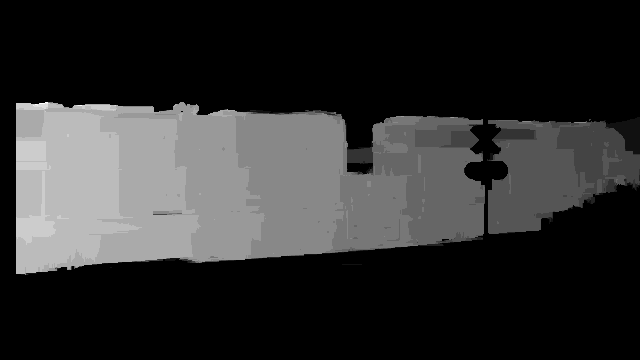
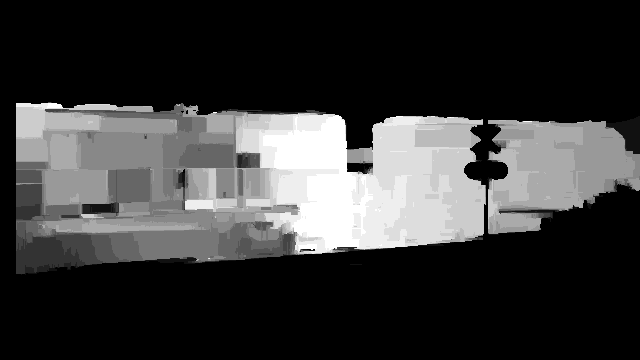
z-buffer looks nice :)

Changed region(s): [[0.0, 0.275, 1.0, 0.7639]]

diff --git a/poc/parallax/prl_v3_mask_border.py b/poc/parallax/prl_v3_mask_border.py
@@ -1,9 +1,11 @@
 import os
 import cv2
 import numpy as np
+from skimage.morphology import closing,disk
+
 
 # v_name = os.path.join(os.path.abspath(os.path.dirname(__file__)),'../../samples/youtube/out_2_1.mp4')
-v_name = os.path.join(os.path.abspath(os.path.dirname(__file__)),'../../samples/youtube/out_2_39.mp4')
+v_name = os.path.join(os.path.abspath(os.path.dirname(__file__)),'../../samples/youtube/out_3_3.mp4')
 f_name_full = os.path.join(os.path.abspath(os.path.dirname(__file__)),'./test_full.png')
 f_name_disp = os.path.join(os.path.abspath(os.path.dirname(__file__)),'./test_disp.png')
 
@@ -21,13 +23,13 @@ windowSize = windowSize = (imgR.shape[1], imgR.shape[0])
 resizeSize = (640, 360)
 
 
-out_name = v_name[:-4] + '_V3_test_resv_len1' + '.avi'
+out_name = v_name[:-4] + '_V3_test_resv_len1_border' + '.avi'
 # out_cap = cv2.VideoCapture(0)
 out_fourcc = cv2.VideoWriter_fourcc(*'XVID')
 out_framerate = cap.get(cv2.CAP_PROP_FPS)
 out_size = (int(cap.get(cv2.CAP_PROP_FRAME_WIDTH)), int(cap.get(cv2.CAP_PROP_FRAME_HEIGHT)))
 # out_out = cv2.VideoWriter(out_name, out_fourcc, out_framerate, (windowSize[0] * 2, windowSize[1] * 2))
-out_out = cv2.VideoWriter(out_name, out_fourcc, out_framerate, (resizeSize[0] * 2, resizeSize[1]))
+out_out = cv2.VideoWriter(out_name, out_fourcc, out_framerate, (resizeSize[0], resizeSize[1]))
 
 frames_left = cap.get(cv2.CAP_PROP_FRAME_COUNT)
 
@@ -55,8 +57,8 @@ def getDispV3(imgL, imgR):
     vis = cv2.ximgproc.getDisparityVis(filtered_disp)
     disp = cv2.normalize(vis, None, alpha = 0, beta = 255, norm_type = cv2.NORM_MINMAX, dtype = cv2.CV_8U)
     
-    disp2 = np.dstack((disp, disp, disp))
-    return disp2
+    # disp2 = np.dstack((disp, disp, disp))
+    return disp
 
 
 def getDispClear(disp):
@@ -79,10 +81,33 @@ while ret:
     imgR = cv2.resize(imgR, resizeSize)
 
     dispV3 = getDispV3(imgL, imgR)
-    conc = concImages(imgL, dispV3)
-    cv2.imshow(windowNameD, conc)
+    cv2.imshow("xdd", dispV3)
+    # conc = concImages(imgL, dispV3)
 
-    out_out.write(conc)
+    dispV3[dispV3 > 40] = 255
+    dispV3[dispV3 <= 40] = 0
+
+    
+
+    median = cv2.medianBlur(dispV3,5)
+
+    # kernel = disk(10)   
+    # img_opening = closing(median,kernel)
+    imgL[median == 0] = 0
+
+    # krawędź
+
+    # Creating kernel
+    kernel = np.ones((3, 3), np.uint8)
+    
+    # Using cv2.erode() method 
+    bord = cv2.erode(median, kernel) 
+    border = median - bord
+    cv2.imshow(windowNameD, imgL)
+    cv2.imshow("xd", border)
+    
+    border2 = np.dstack((border, border, border))
+    out_out.write(border2)
     imgL = imgR
     # imgTemp = imgR
     ret, imgR = cap.read()

diff --git a/poc/parallax/prl_v3_mask.py b/poc/parallax/prl_v3_mask.py
@@ -1,9 +1,11 @@
 import os
 import cv2
 import numpy as np
+from skimage.morphology import closing,disk
+
 
 # v_name = os.path.join(os.path.abspath(os.path.dirname(__file__)),'../../samples/youtube/out_2_1.mp4')
-v_name = os.path.join(os.path.abspath(os.path.dirname(__file__)),'../../samples/youtube/out_2_39.mp4')
+v_name = os.path.join(os.path.abspath(os.path.dirname(__file__)),'../../samples/youtube/out_3_5.mp4')
 f_name_full = os.path.join(os.path.abspath(os.path.dirname(__file__)),'./test_full.png')
 f_name_disp = os.path.join(os.path.abspath(os.path.dirname(__file__)),'./test_disp.png')
 
@@ -17,17 +19,17 @@ ret, imgL = cap.read()
 # ret, imgTemp = cap.read() 
 ret, imgR = cap.read() 
 windowSize = windowSize = (imgR.shape[1], imgR.shape[0])
-# resizeSize = (1280, 720)
-resizeSize = (640, 360)
+resizeSize = (1280, 720)
+# resizeSize = (640, 360)
 
 
-out_name = v_name[:-4] + '_V3_test_resv_len1' + '.avi'
+out_name = v_name[:-4] + '_V3_test_res_len1' + '.avi'
 # out_cap = cv2.VideoCapture(0)
 out_fourcc = cv2.VideoWriter_fourcc(*'XVID')
 out_framerate = cap.get(cv2.CAP_PROP_FPS)
 out_size = (int(cap.get(cv2.CAP_PROP_FRAME_WIDTH)), int(cap.get(cv2.CAP_PROP_FRAME_HEIGHT)))
 # out_out = cv2.VideoWriter(out_name, out_fourcc, out_framerate, (windowSize[0] * 2, windowSize[1] * 2))
-out_out = cv2.VideoWriter(out_name, out_fourcc, out_framerate, (resizeSize[0] * 2, resizeSize[1]))
+out_out = cv2.VideoWriter(out_name, out_fourcc, out_framerate, (resizeSize[0], resizeSize[1]))
 
 frames_left = cap.get(cv2.CAP_PROP_FRAME_COUNT)
 
@@ -55,8 +57,8 @@ def getDispV3(imgL, imgR):
     vis = cv2.ximgproc.getDisparityVis(filtered_disp)
     disp = cv2.normalize(vis, None, alpha = 0, beta = 255, norm_type = cv2.NORM_MINMAX, dtype = cv2.CV_8U)
     
-    disp2 = np.dstack((disp, disp, disp))
-    return disp2
+    # disp2 = np.dstack((disp, disp, disp))
+    return disp
 
 
 def getDispClear(disp):
@@ -79,10 +81,26 @@ while ret:
     imgR = cv2.resize(imgR, resizeSize)
 
     dispV3 = getDispV3(imgL, imgR)
-    conc = concImages(imgL, dispV3)
-    cv2.imshow(windowNameD, conc)
+    dispV33 = np.dstack((dispV3, dispV3, dispV3))
+    
+    # conc = concImages(imgL, dispV3)
 
-    out_out.write(conc)
+    dispV3[dispV3 > 40] = 255
+    dispV3[dispV3 <= 40] = 0
+
+    
+
+    median = cv2.medianBlur(dispV3,5)
+
+    # kernel = disk(10)   
+    # img_opening = closing(median,kernel)
+    imgL[median == 0] = 0
+
+    cv2.imshow(windowNameD, imgL)
+    cv2.imshow("xd", median)
+    
+    # out_out.write(imgL)
+    out_out.write(dispV33)
     imgL = imgR
     # imgTemp = imgR
     ret, imgR = cap.read()

diff --git a/poc/parallax/prl_comparison.py b/poc/parallax/prl_comparison.py
@@ -31,10 +31,12 @@ stereo = cv2.StereoSGBM_create(minDisparity = minDisparity,
 
 
 ret, imgR = cap.read() 
-windowSize = windowSize = (imgR.shape[1], imgR.shape[0])
-resizeSize = (640, 360)
+
 imgL = imgR
 ret, imgR = cap.read() 
+
+windowSize = windowSize = (imgR.shape[1], imgR.shape[0])
+resizeSize = (640, 360)
 
 out_name = v_name[:-4] + 'cmp_resize_very_V3' + '.avi'
 # out_cap = cv2.VideoCapture(0)
